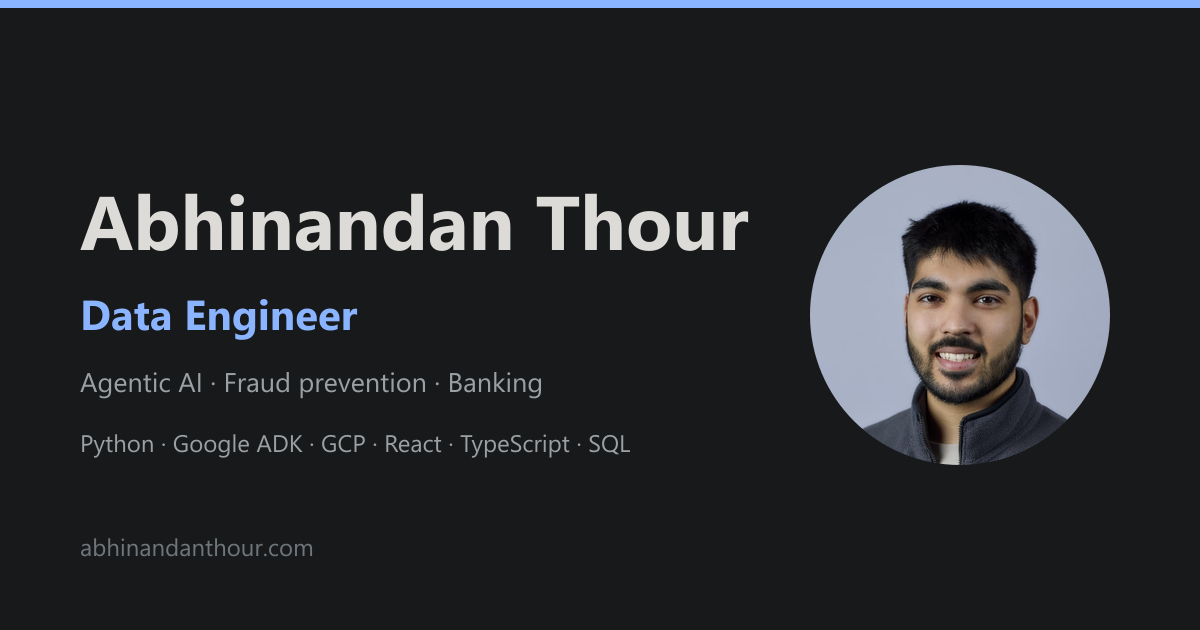
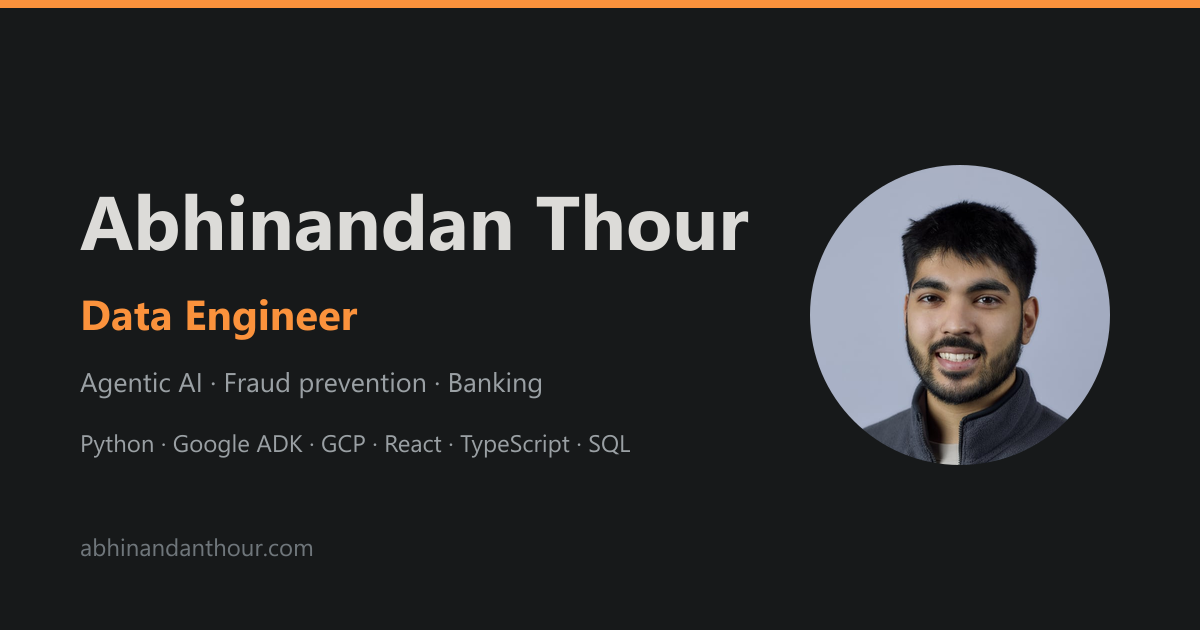
Switch the accent from blue to a warm orange
Burnt orange #c2410c on light, flame #fb923c on dark. Both were picked to keep
contrast: the light value is dark enough to carry white button text and to
pass as a link colour on white (~4.9:1), the dark value light enough to read
on the near-black background.

The three.js hero graph had the accent hardcoded as a hex pair and would have
silently kept its blue; it now reads --accent from CSS like everything else,
so the token is the single source of truth. The pixel canvases' fallback
colours are updated to match. The OG card and the favicon's backpack are
regenerated, since generated assets bake the colour in.

Changed region(s): [[0.0, 0.0, 1.0, 0.0302], [0.0617, 0.4524, 0.3083, 0.5429]]

diff --git a/src/components/HeroBackground.jsx b/src/components/HeroBackground.jsx
@@ -32,7 +32,13 @@ function HeroBackground({ theme }) {
       .then((THREE) => {
         if (disposed) return;
 
-        const accent = theme === 'dark' ? 0x8ab4ff : 0x1a56db;
+        // Read the accent from CSS rather than hardcoding it, so changing the
+        // token in one place recolours the graph too.
+        const accentVar = getComputedStyle(document.documentElement)
+          .getPropertyValue('--accent')
+          .trim();
+        const parsed = /^#([0-9a-f]{6})$/i.exec(accentVar);
+        const accent = parsed ? parseInt(parsed[1], 16) : 0xfb923c;
 
         const scene = new THREE.Scene();
         const camera = new THREE.PerspectiveCamera(

diff --git a/src/styles.css b/src/styles.css
@@ -13,7 +13,9 @@
   --border: #e2e5ea;
   --text: #16181a;
   --textMuted: #5b626b;
-  --accent: #1a56db;
+  /* Burnt orange: dark enough to carry white button text and to pass contrast
+     as a link colour on white (~4.9:1). */
+  --accent: #c2410c;
   --accentText: #ffffff;
 
   --maxWidth: 60rem;
@@ -34,7 +36,8 @@
   --border: #2f3335;
   --text: #dcdbd8;
   --textMuted: #9aa0a4;
-  --accent: #8ab4ff;
+  /* Flame orange, light enough to read on the near-black background. */
+  --accent: #fb923c;
   --accentText: #16181a;
 }
 

diff --git a/src/components/PixelTrail.jsx b/src/components/PixelTrail.jsx
@@ -51,7 +51,7 @@ function PixelTrail({ theme }) {
       ground: read('--text', '#16181a'),
       body: read('--text', '#16181a'),
       skin: read('--textMuted', '#5b626b'),
-      pack: read('--accent', '#1a56db'),
+      pack: read('--accent', '#c2410c'),
     };
 
     const prefersReducedMotion = window.matchMedia('(prefers-reduced-motion: reduce)').matches;

diff --git a/src/components/PixelOrbit.jsx b/src/components/PixelOrbit.jsx
@@ -76,7 +76,7 @@ function PixelOrbit({ theme }) {
     const read = (name, fallback) => styles.getPropertyValue(name).trim() || fallback;
     const colours = {
       dot: read('--border', '#e2e5ea'),
-      accent: read('--accent', '#1a56db'),
+      accent: read('--accent', '#c2410c'),
       body: read('--textMuted', '#5b626b'),
     };
 

diff --git a/CLAUDE.md b/CLAUDE.md
@@ -39,6 +39,8 @@ Sections are anchors on one page (`#about`, `#experience`, `#projects`, `#contac
 - **No CSS framework.** Bootstrap and Font Awesome were removed; the two icons the site needs are inline SVG. Keep it that way — they cost ~300 KB on the critical path for very little.
 - Theme is `data-theme` on `<html>`, set by an inline script in `index.html` *before first paint* to avoid a flash. React reads the applied value rather than setting it in an effect. Don't move this into a `useEffect`.
 - All colours come from CSS custom properties defined in `styles.css`. Both light and dark must work; check both after any visual change.
+- The accent is warm (burnt orange `#c2410c` light, flame `#fb923c` dark). Everything reads `--accent` at runtime, including the three.js graph and both pixel canvases — don't reintroduce a hardcoded accent hex. The generated assets in `public/` bake it in, so changing the token means regenerating them.
+- Favicons are the **footer hiker sprite**, not the headshot: 16x16 grid, nearest-neighbour upscaled, shipped as `favicon.svg` plus a real multi-size `.ico` (16/32/48) and the PNG icons. If the sprite in `PixelTrail.jsx` changes, the icons need regenerating to match. The OG card keeps the photo — that's a social preview at a size where a face reads.
 - Animations respect `prefers-reduced-motion`. The three.js hero background does not run at all when reduced motion is requested.
 
 ## Motion
